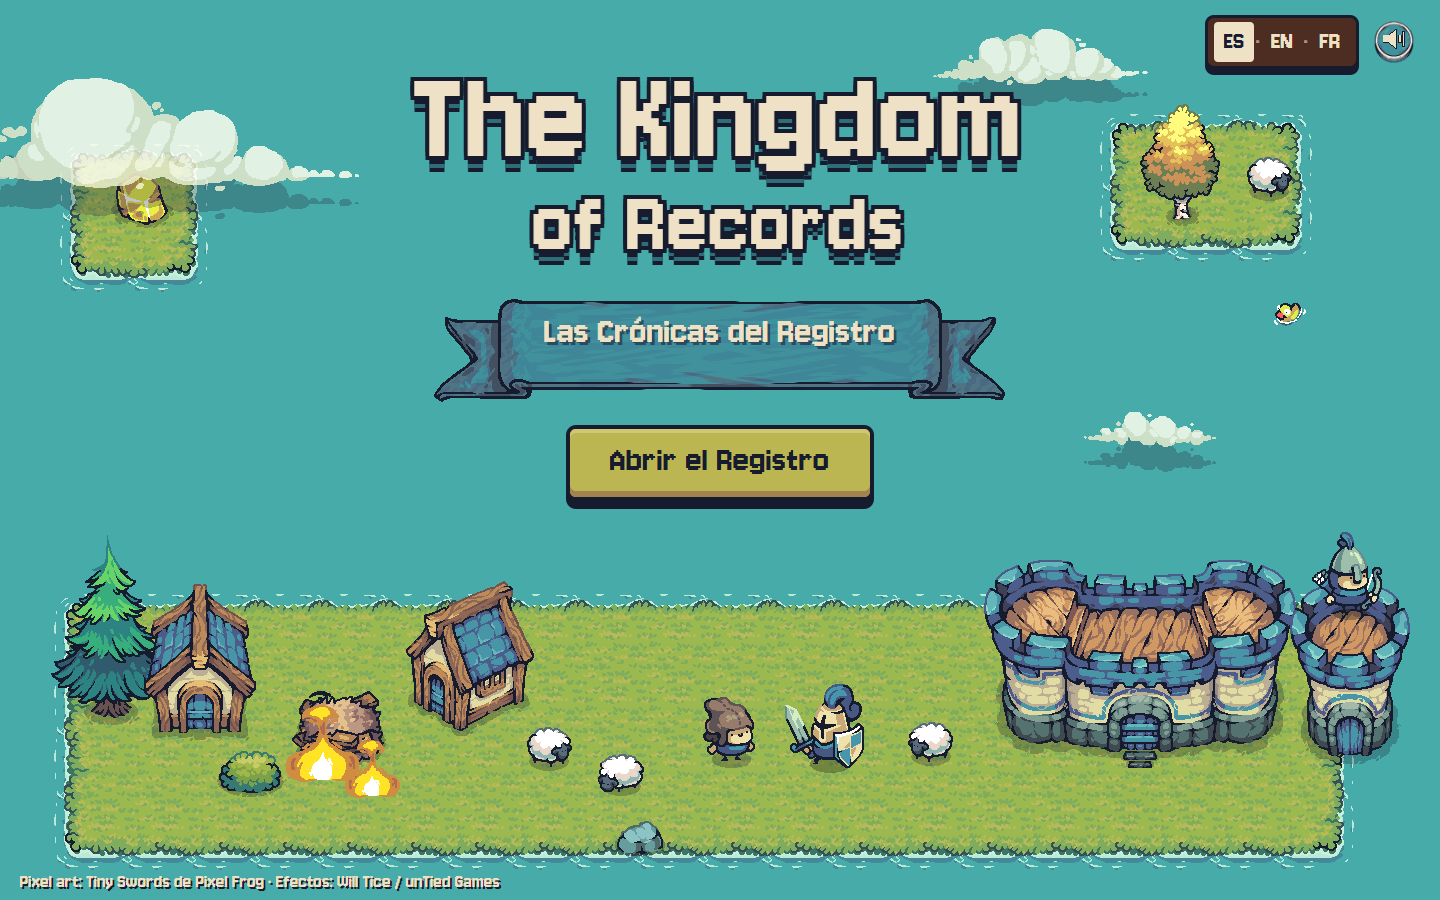
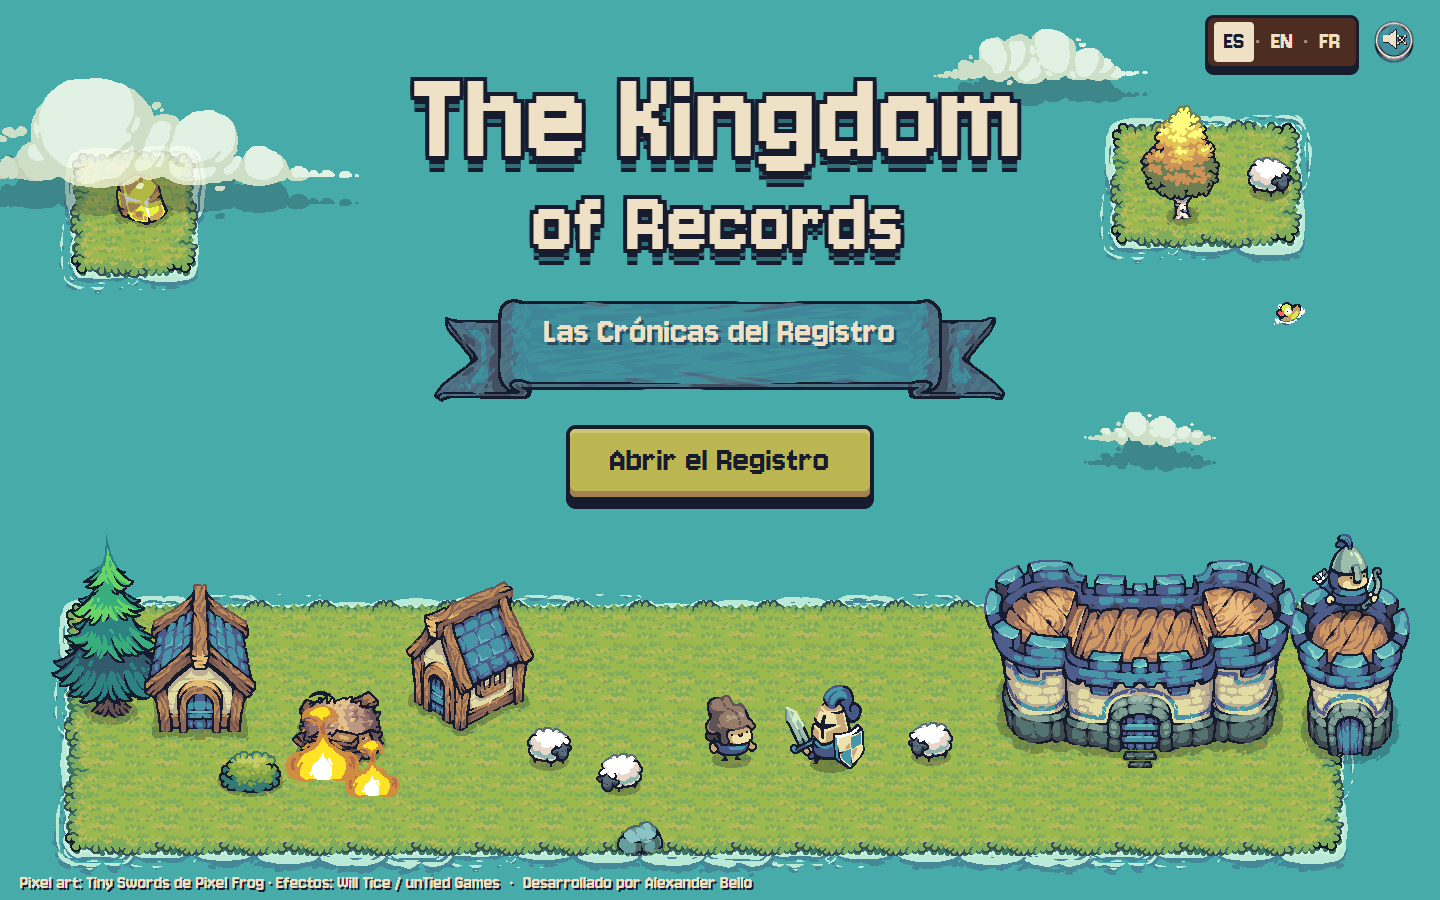
feat: credit the author on the title screen and in the epilogue

diff --git a/src/styles/main.css b/src/styles/main.css
@@ -168,7 +168,8 @@ a { color: inherit; }
 .logo span { display: block; font-size: 94px; }
 .home__subtitle { margin-top: 12px; font-size: 2.5rem; }
 .home__actions { display: flex; flex-direction: column; align-items: center; gap: 18px; margin-top: 22px; }
-.credits { position: absolute; left: 20px; bottom: 6px; z-index: 6000; color: var(--parchment); font-size: 1.25rem; text-shadow: 2px 2px 0 var(--ink); }
+.credits { position: absolute; left: 20px; bottom: 6px; z-index: 6000; display: flex; flex-wrap: wrap; color: var(--parchment); font-size: 1.25rem; line-height: 1.15; text-shadow: 2px 2px 0 var(--ink); }
+.credits span + span::before { content: '·'; margin: 0 .5em; }
 
 /* ---------- map ---------- */
 .screen--map { position: relative; min-height: 100vh; padding: 96px 20px 60px; overflow-x: clip; }
@@ -319,7 +320,8 @@ a { color: inherit; }
   .logo span { font-size: 50px; }
   .home__hero { padding-top: 72px; }
   .home__subtitle { transform: scale(.7); margin: 0 -60px; }
-  .credits { right: 20px; font-size: 1rem; }
+  .credits { right: 20px; flex-direction: column; font-size: 1rem; }
+  .credits span + span::before { content: none; }
 
   .screen--map { padding: 0 0 90px; }
   .map__stages { flex-direction: column; align-items: center; gap: 18px; padding-top: 16px; }

diff --git a/src/ui/screens/home.ts b/src/ui/screens/home.ts
@@ -1,3 +1,4 @@
+import { AUTHOR } from '../../app/author';
 import type { AppContext, Screen } from '../../app/context';
 import { routeHash } from '../../app/router';
 import { h } from '../dom';
@@ -45,7 +46,9 @@ export function homeScreen(ctx: AppContext): Screen {
     world.el,
     ctx.chrome(),
     main,
-    h('footer', { class: 'credits' }, i18n.t('footer.credits')),
+    h('footer', { class: 'credits' },
+      h('span', {}, i18n.t('footer.credits')),
+      h('span', {}, i18n.t('footer.developedBy', { name: AUTHOR }))),
   );
   return { element, title: `${i18n.t('app.title')} — ${i18n.t('app.subtitle')}`, focus: primary };
 }

diff --git a/src/ui/screens/epilogue.ts b/src/ui/screens/epilogue.ts
@@ -1,3 +1,4 @@
+import { AUTHOR } from '../../app/author';
 import type { AppContext, Screen } from '../../app/context';
 import { routeHash } from '../../app/router';
 import type { Speaker } from '../../engine/types';
@@ -18,6 +19,7 @@ const LINES: [Speaker, string][] = [
 
 /** People and works credited at the end (names are not translated). */
 const CREDITS: [string, string[]][] = [
+  ['credits.developedBy', [AUTHOR]],
   ['credits.art', ['Tiny Swords — Pixel Frog']],
   ['credits.effects', ['Super Pixel Effects Gigapack — Will Tice / unTied Games']],
   ['credits.sound', ['Kenney (kenney.nl) — CC0']],

diff --git a/src/app/author.ts b/src/app/author.ts
@@ -1,0 +1,2 @@
+/** The game's author, credited on the title screen and in the epilogue (a name, so not translated). */
+export const AUTHOR = 'Alexander Bello';
